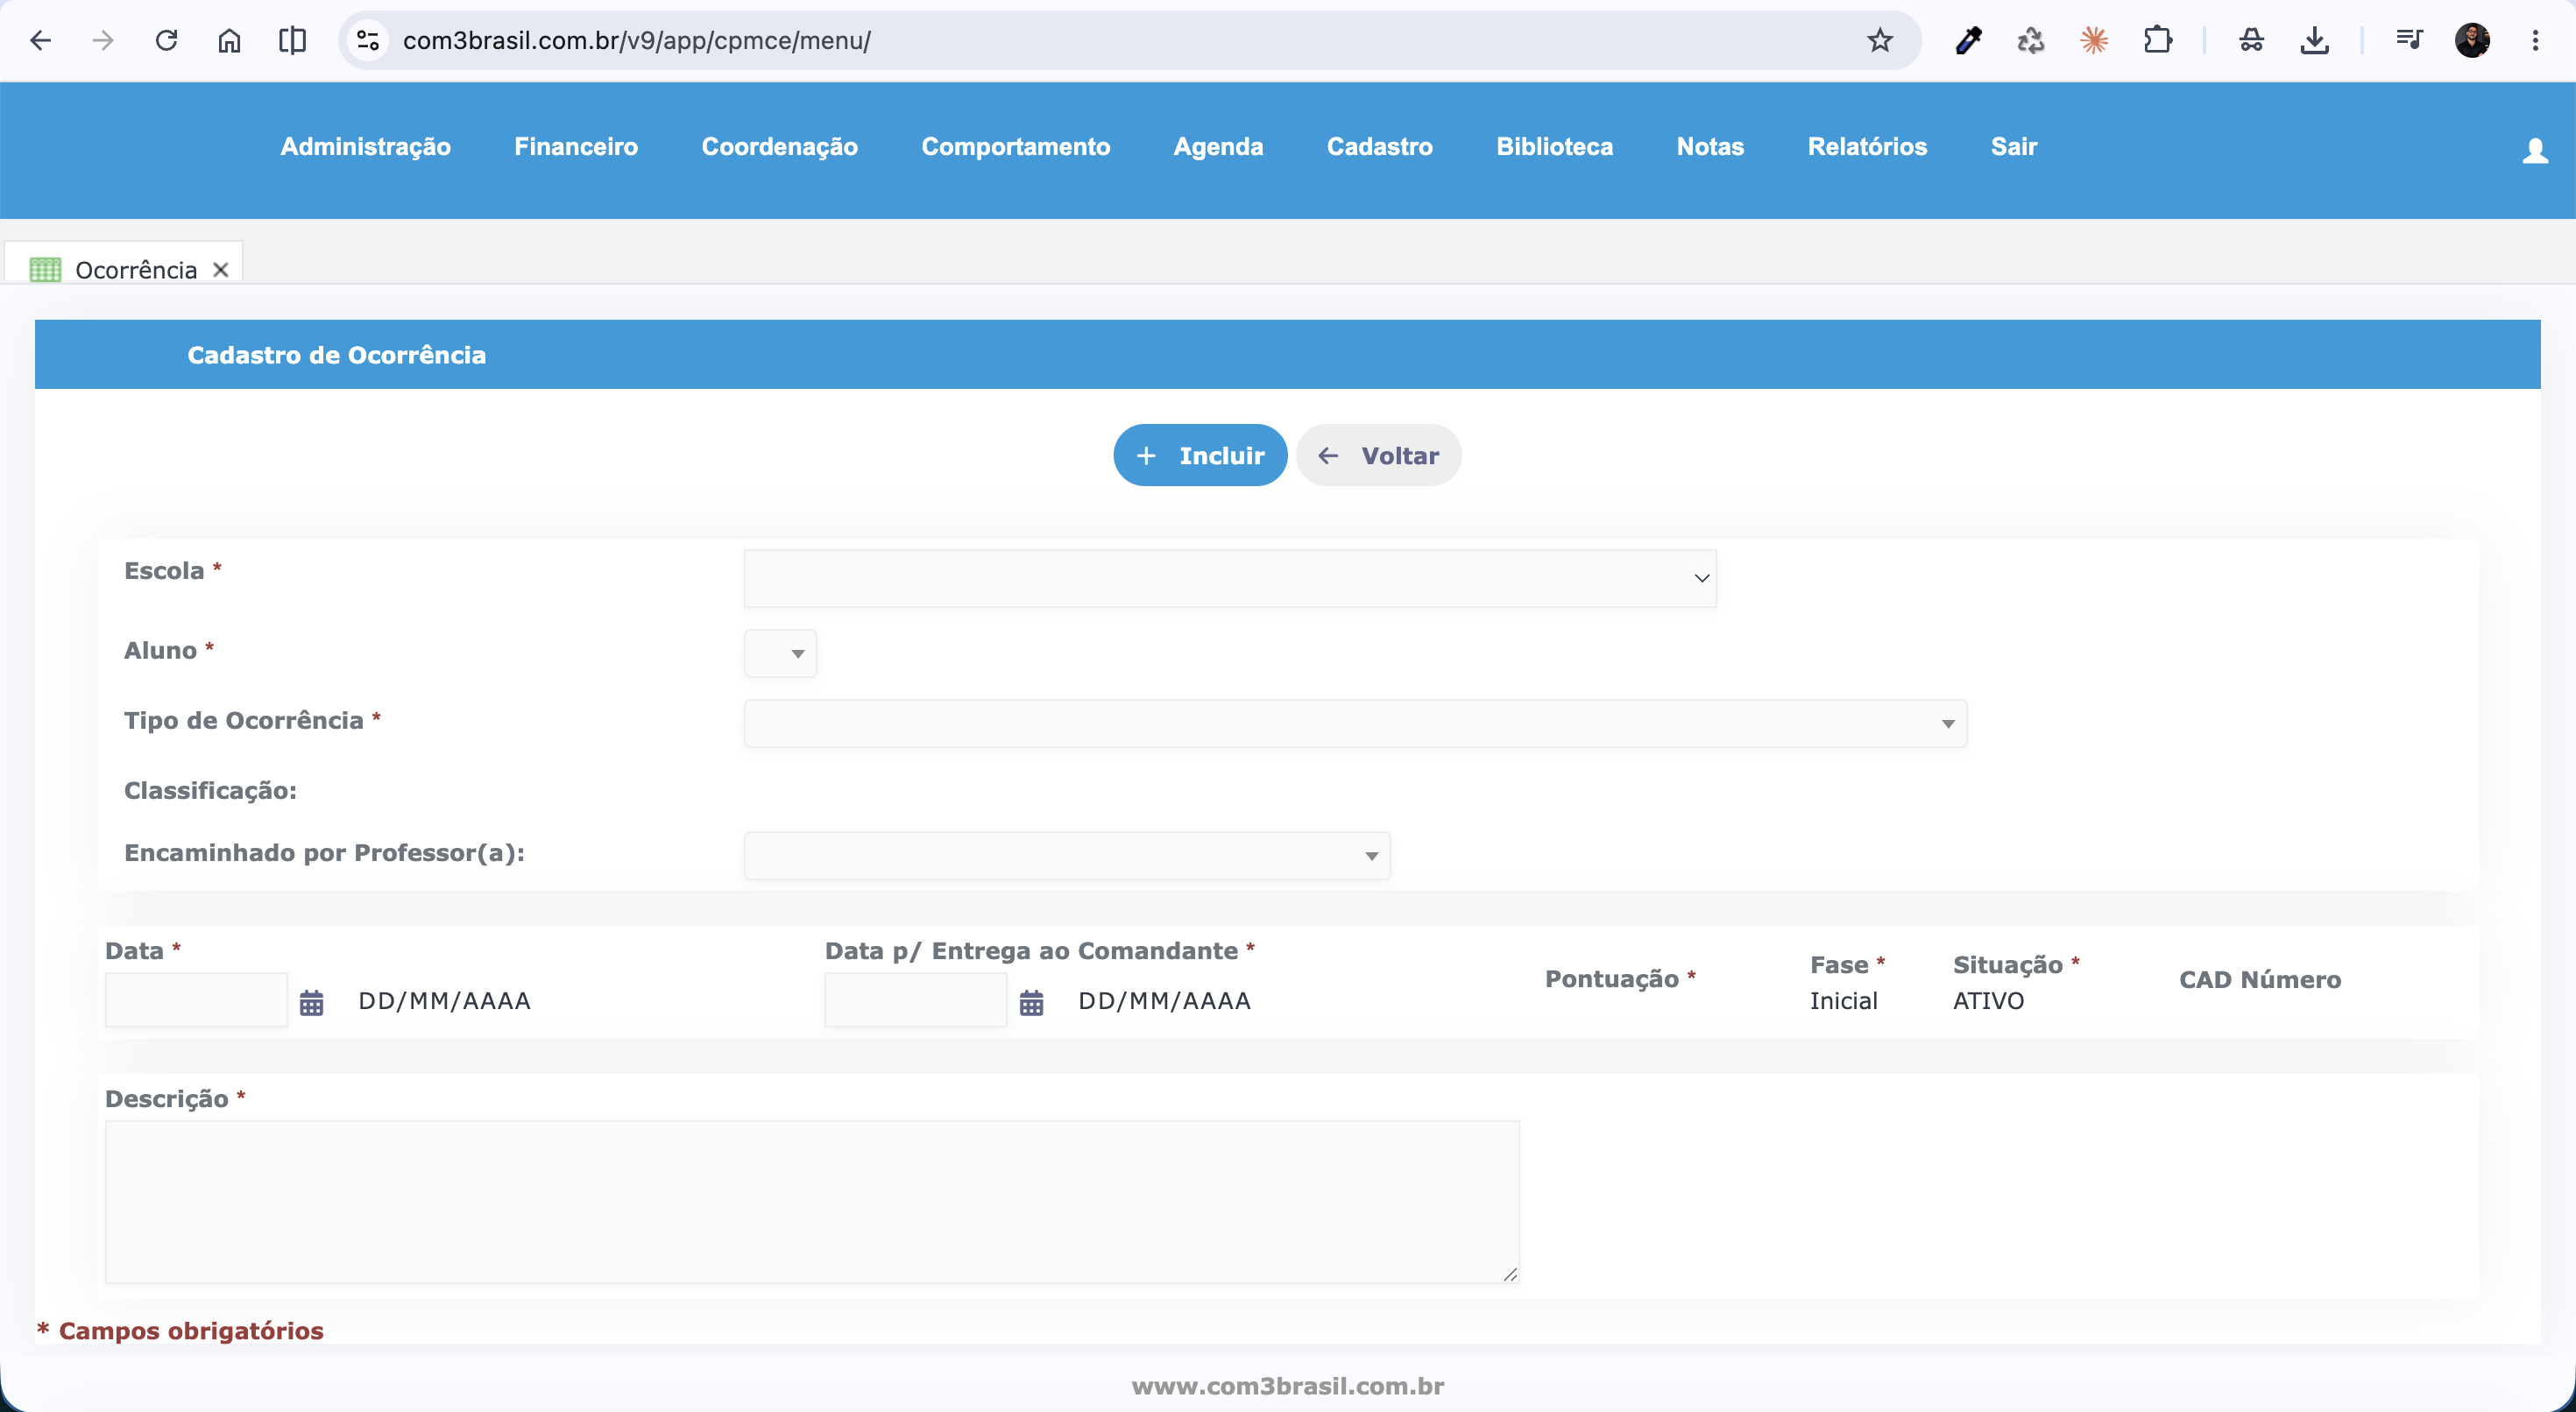
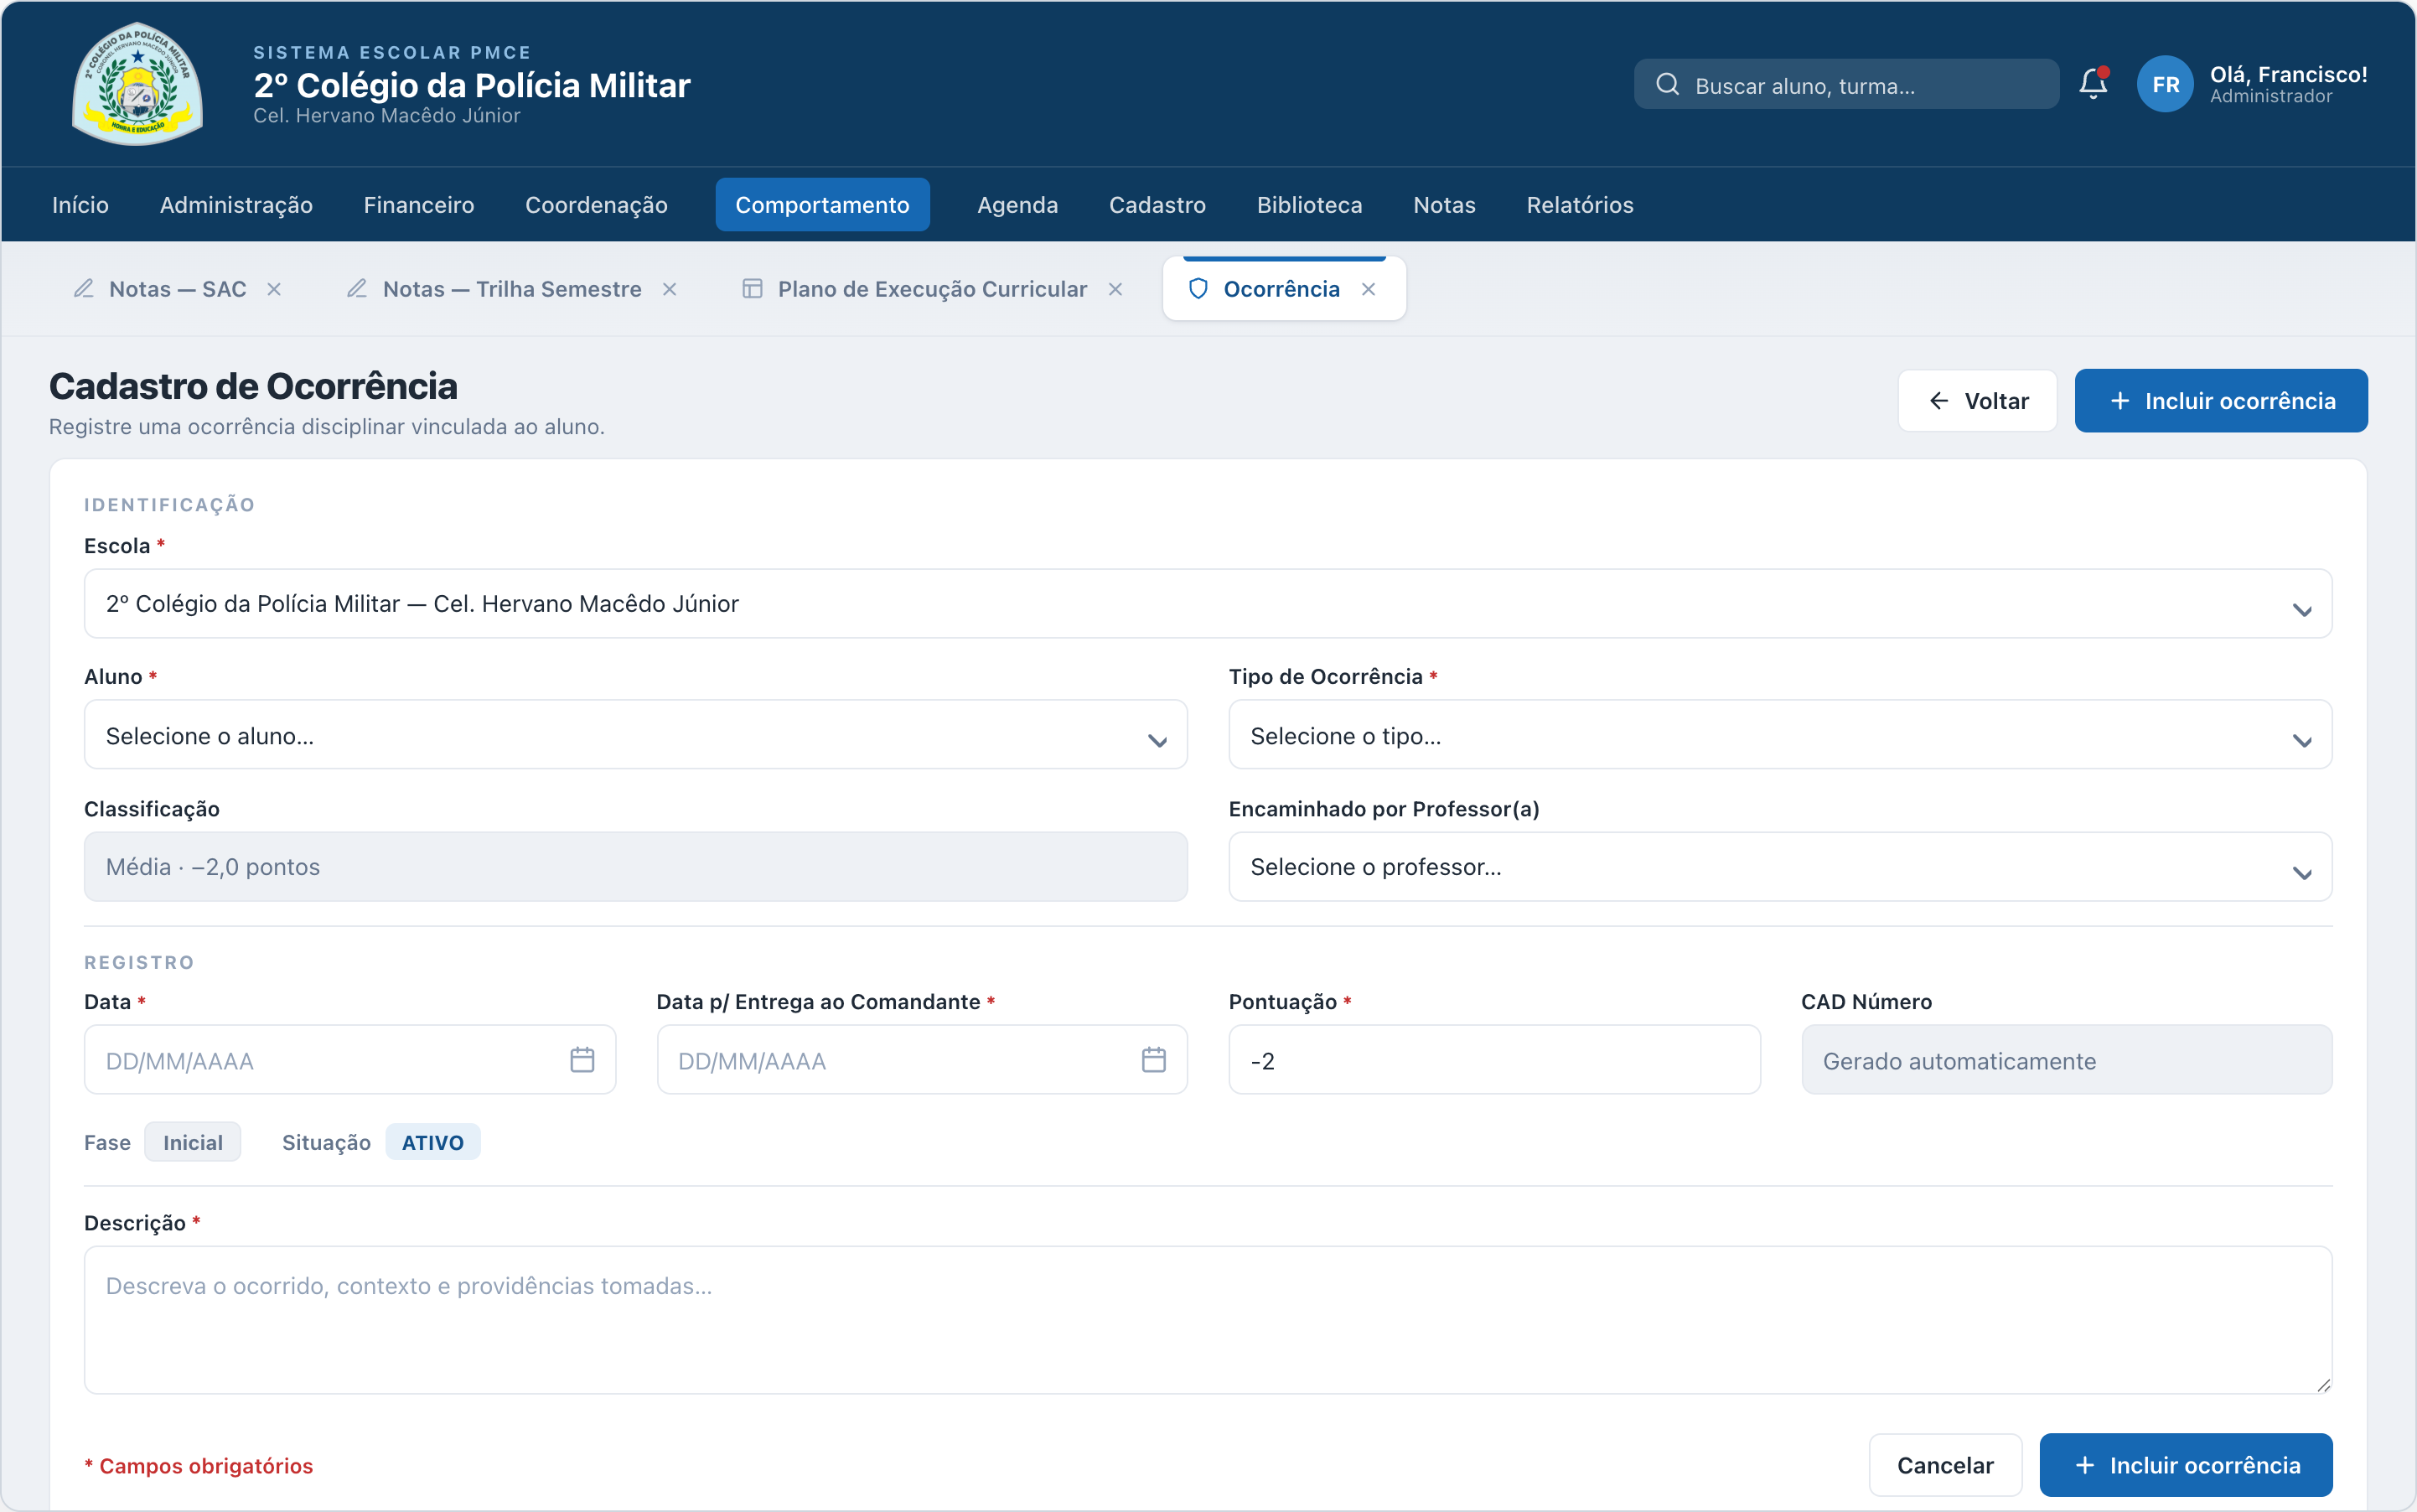
Update Behavior module screenshots to redesigned UI
Replace the occurrence-registration screenshot with the redesigned
form and add a Justification Query screenshot showing recurrence and
per-student justification status, rounding out the CAD/discipline
narrative in the case study.

diff --git a/src/app/case/sistema-escolar-policia/page.tsx b/src/app/case/sistema-escolar-policia/page.tsx
@@ -384,15 +384,20 @@ function useSectionsData(lang: "pt" | "en") {
           </h4>
           <p className="mt-2">
             {t({
-              pt: "Sendo um colégio militarizado, o módulo Comportamento trata a disciplina como uma nota: cada ocorrência tem tipo, classificação, professor que encaminhou, pontuação, fase e situação — e um campo de \"Data para Entrega ao Comandante\", que embute a hierarquia militar diretamente no fluxo de aprovação. O ciclo é fechado por rotinas de geração e recálculo automático da nota de comportamento (CAD).",
-              en: "Being a militarized school, the Behavior module treats discipline as a grade: each occurrence has a type, classification, referring teacher, score, phase and status — plus a \"Date for Delivery to the Commander\" field, which embeds the military chain of command directly into the approval flow. The cycle is closed by automatic behavior-grade (CAD) generation and recalculation routines.",
+              pt: "Sendo um colégio militarizado, o módulo Comportamento trata a disciplina como uma nota: cada ocorrência tem tipo, classificação, professor que encaminhou, pontuação, fase e situação — e um campo de \"Data para Entrega ao Comandante\", que embute a hierarquia militar diretamente no fluxo de aprovação. Um monitor acompanha reincidência e justificativas por aluno, e o ciclo é fechado por rotinas de geração e recálculo automático da nota de comportamento (CAD).",
+              en: "Being a militarized school, the Behavior module treats discipline as a grade: each occurrence has a type, classification, referring teacher, score, phase and status — plus a \"Date for Delivery to the Commander\" field, which embeds the military chain of command directly into the approval flow. A monitor tracks recurrence and justifications per student, and the cycle is closed by automatic behavior-grade (CAD) generation and recalculation routines.",
             })}
           </p>
-          <div className="mt-4">
+          <div className="mt-4 grid grid-cols-1 sm:grid-cols-2 gap-4">
             {shot(
               "/images/sistema-escolar-policia-ocorrencia-cad.png",
               "Tela de Cadastro de Ocorrência do módulo Comportamento (CAD)",
               { pt: "Cadastro de Ocorrência: pontuação, fase e a \"Data p/ Entrega ao Comandante\" que reflete a hierarquia militar do colégio.", en: "Occurrence registration: score, phase, and the \"Date for Delivery to the Commander\" field reflecting the school's military chain of command." }
+            )}
+            {shot(
+              "/images/sistema-escolar-policia-justificativa.png",
+              "Tela de Consulta de Justificativa, com reincidência e situação por aluno",
+              { pt: "Consulta de Justificativa: reincidência, monitor responsável e status de justificativa por ocorrência.", en: "Justification Query: recurrence, responsible monitor and justification status per occurrence." }
             )}
           </div>
 